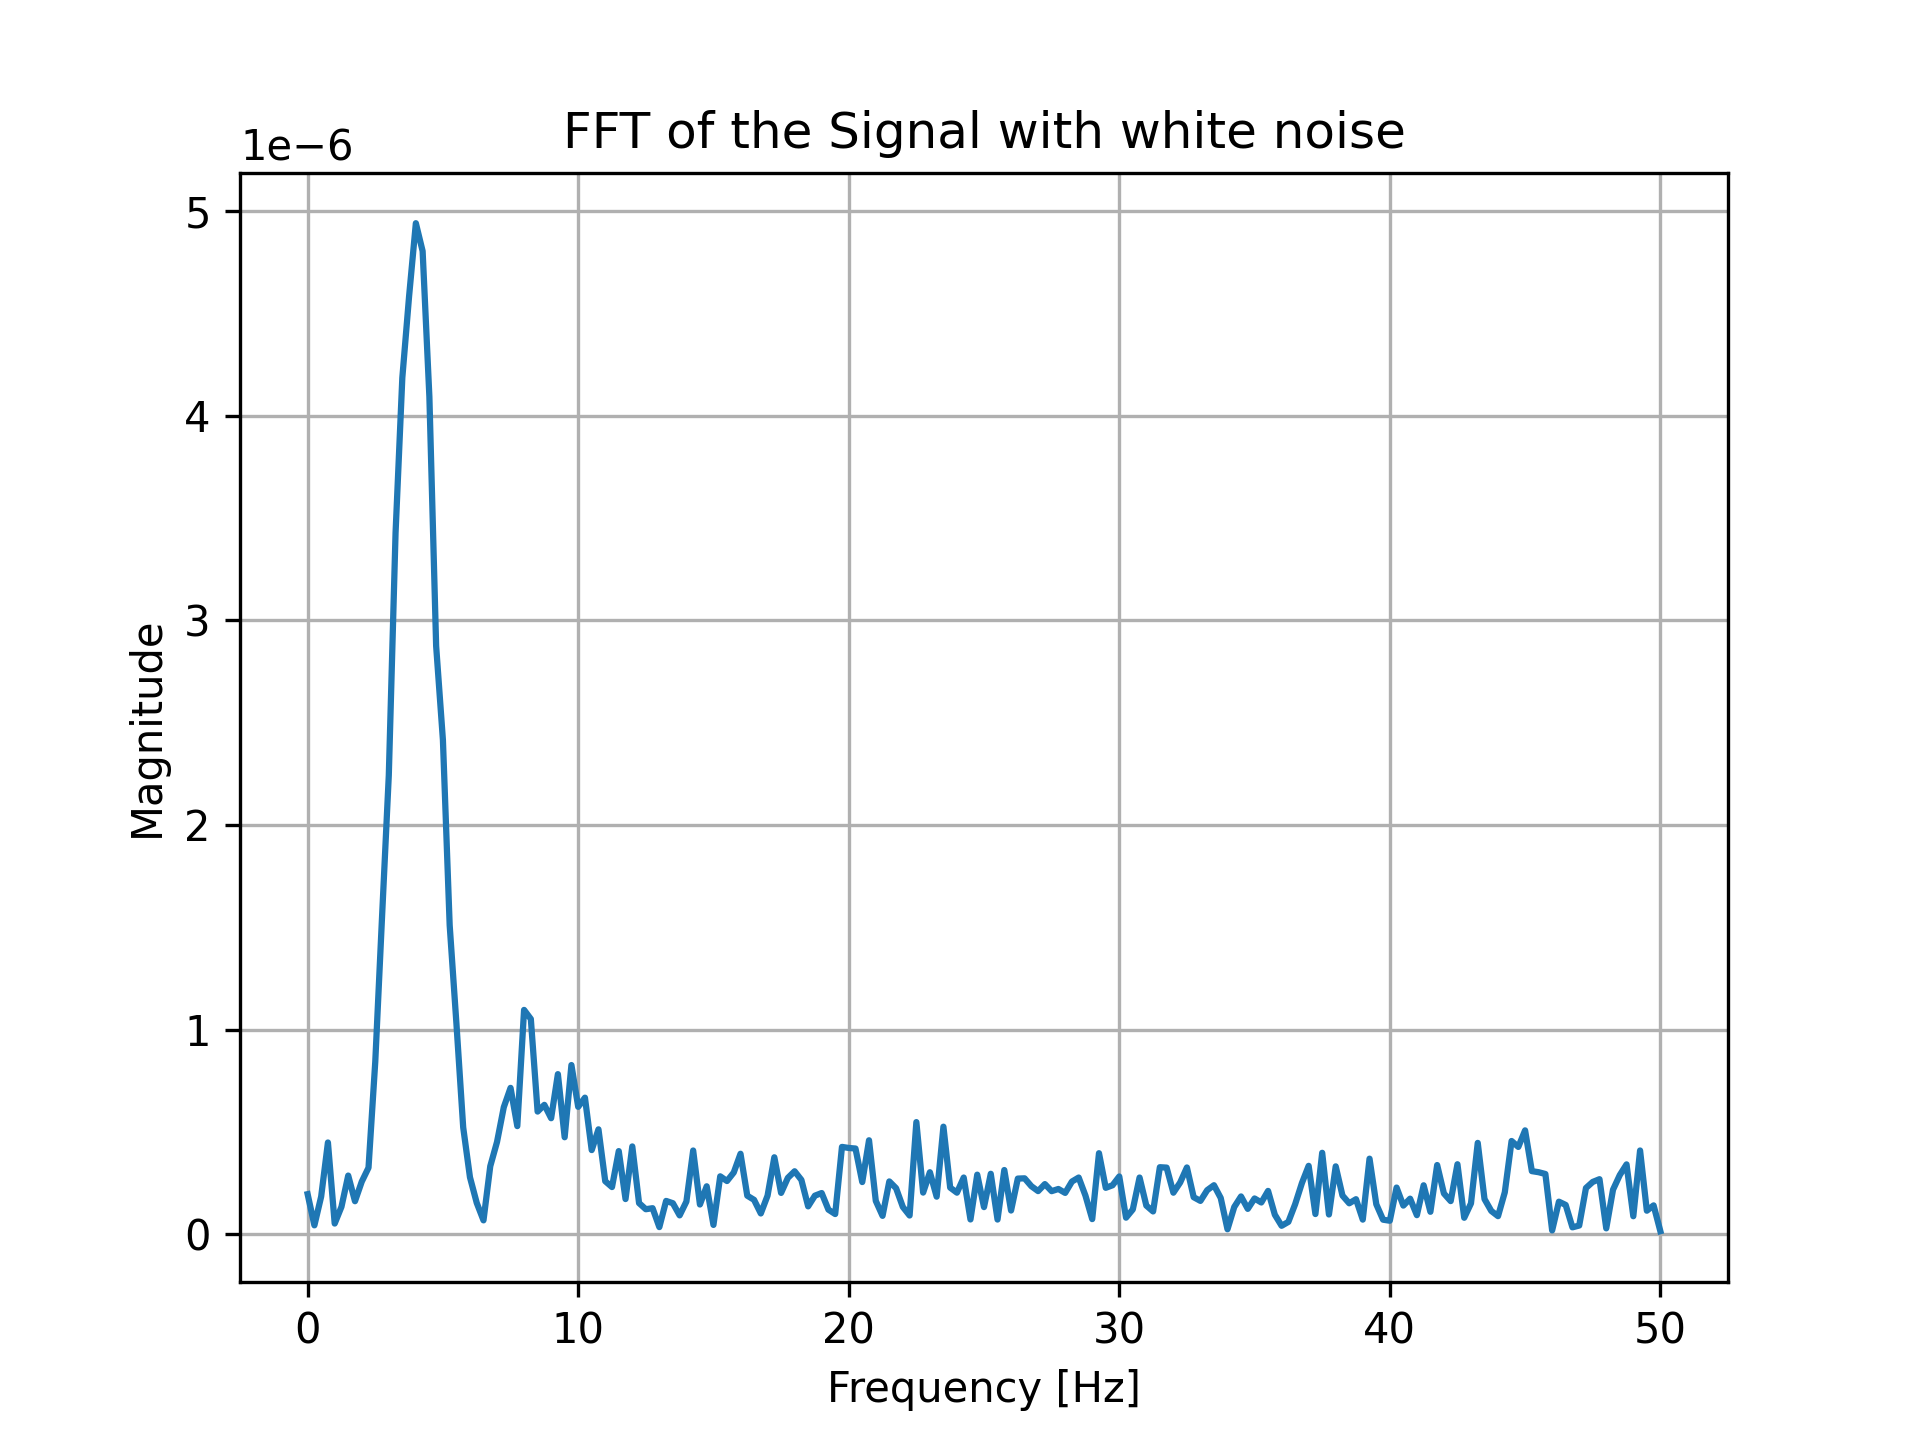
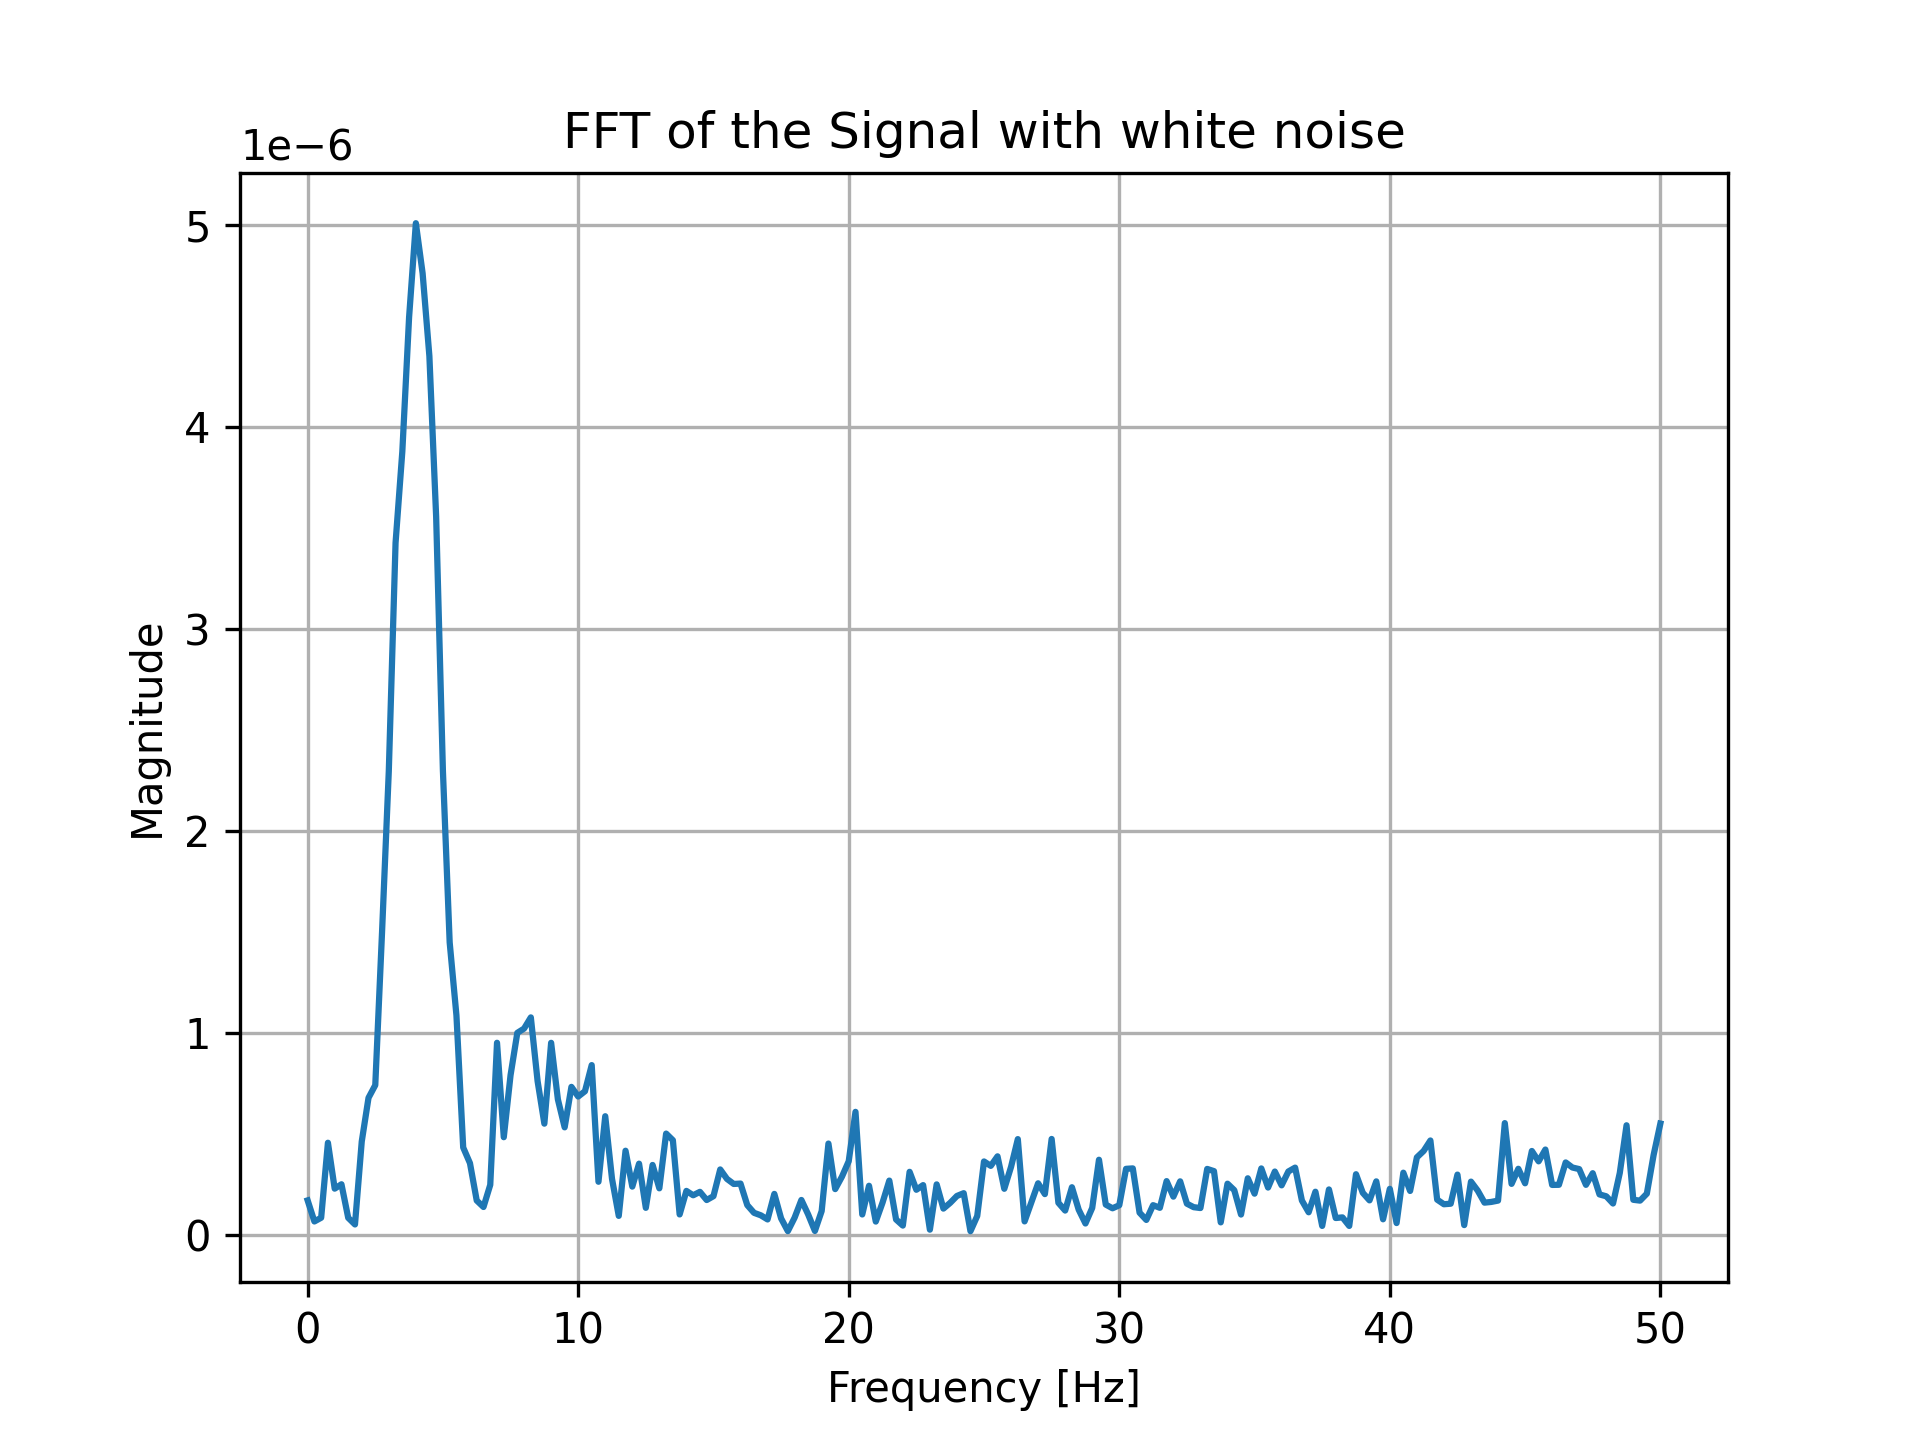
All extra tests have been added, now including chirp and noise and offset combined

diff --git a/group_work_1/main.py b/group_work_1/main.py
@@ -1,6 +1,7 @@
 
 from pathlib import Path
 from matplotlib import pyplot as plt
+from scipy.signal import chirp
 import numpy as np
 
 
@@ -33,34 +34,52 @@ def plot_signal(t: np.ndarray, signal: np.ndarray, tag: str | None = None):
 
 def main():
     filepath = Path("group_work_1/Signal1_2018.csv")
+    if not filepath.exists():
+        print(f"File {filepath} does not exist.")
+        return
+    
     fs = 100  # Sampling frequency
+
+    signal = np.loadtxt(filepath, delimiter=",")
+    t = np.arange(len(signal)) / fs  # Time vector
+
     # Offset parameters
     offset_amplitude = 1e-6  # 1 microvolt
     # Noise parameters
     mu = 0  # Mean
     sigma = 5e-6  # Standard deviation (5 microvolts)
-
-    if not filepath.exists():
-        print(f"File {filepath} does not exist.")
-        return
+    # Chirp parameters
+    start_frequency = 0.1  # Hz
+    end_frequency = 10  # Hz
+    chirp_duration = t[-1]  # Duration of the chirp signal
+    chirp_amplitude = 10e-6  # 10 microvolts
     
-    signal = np.loadtxt(filepath, delimiter=",")
-    t = np.arange(len(signal)) / fs  # Time vector
-
+    chirp_signal = chirp_amplitude * chirp(t, f0=start_frequency, f1=end_frequency, t1=chirp_duration, method="linear")
+    
     # Raw signal
     plot_signal(t, signal)
     plot_fft(signal, fs)
 
-    # Adding offset
+    # Offset analysis
     signal_with_offset = signal + offset_amplitude  # Adding DC offset
     plot_signal(t, signal_with_offset, tag="offset")
     plot_fft(signal_with_offset, fs, tag="offset")
 
-    # Adding noise
+    # White noise analysis
     signal_with_noise = signal + np.random.normal(mu, sigma, size=signal.shape)  # Adding white noise
 
     plot_signal(t, signal_with_noise, tag="white noise")
     plot_fft(signal_with_noise, fs, tag="white noise")
+
+    # White noise + offset analysis
+    signal_with_noise_and_offset = signal_with_noise + offset_amplitude  # Adding DC offset
+    plot_signal(t, signal_with_noise_and_offset, tag="white noise and offset")
+    plot_fft(signal_with_noise_and_offset, fs, tag="white noise and offset")
+
+    # Chirp analysis
+    signal_with_chirp = signal + chirp_signal  # Adding chirp signal
+    plot_signal(t, signal_with_chirp, tag="chirp")
+    plot_fft(signal_with_chirp, fs, tag="chirp")
 
 
 if __name__ == "__main__":
